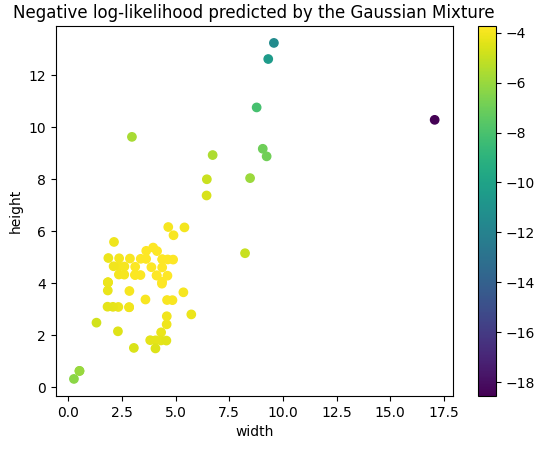
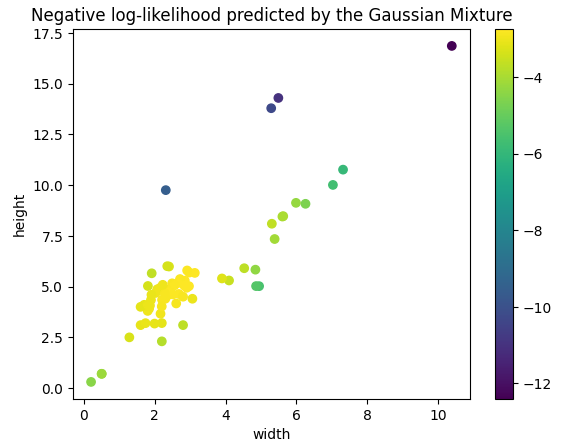
light fixes

diff --git a/README.md b/README.md
@@ -254,7 +254,7 @@ At the bottom right, we can identify the Geographic Coordinate System for the po
 We will further use [utm](https://pypi.org/project/utm/) python package to convert those points into `UTM` Project Coordinate System and get points as (x,y) coordinates in meters.
 
 
-But first, we need to load the shapes using [pyshapefile](https://pypi.org/project/pyshp/) python package to read the shapefile containing a bouding box and polygons points list associated to each shape.
+But first, we need to load the shapes using [pyshapefile](https://pypi.org/project/pyshp/) python package to read the shapefile containing a bouding box and a polygon points list associated to each shape.
 
 
 ```
@@ -281,20 +281,20 @@ We can get the limit of the zone in terms of Geographic Coordinates (longitude, 
 Let's then project the Geographic Coordinates into meters Project Coordinates UTM ...
 
 ```
-from src.utils.converter import project_and_normalize_shapes
-shapes_normalized = project_and_normalize_shapes(shapes)
+>>> from src.utils.converter import project_and_normalize_shapes
+>>> shapes_normalized = project_and_normalize_shapes(shapes)
 ```
 
 ... and use a function to re-build the mask with project meters coordinates
 
 ```
-from src.core.morphology import get_cv2_contours_from_shapes
-from src.utils.display import draw_cc_from_contours
-draw_cc_from_contours(contours);
+>>> from src.core.morphology import get_cv2_contours_from_shapes
+>>> from src.utils.display import draw_cc_from_contours
+>>> draw_cc_from_contours(contours);
 ```
 ![img](.thumbnails/mask_with_meters.png)
 
-III.2/ Geometric analyses
+## III.2/ Geometric analyses
 
 The last mask above shows that we can play with connected components geometrics to idenfity a pattern that well characterize a vehicle.
 
@@ -305,14 +305,14 @@ We expect to identify this cluster to well represent isolated and well-segmented
 Let's plot height, width bounding boxes distribution
 
 ```
-import matplotlib.pyplot as plt
-hv = [shape.bbox[2] - shape.bbox[0] for shape in shapes_normalized]
-wv = [shape.bbox[3] - shape.bbox[1] for shape in shapes_normalized]
-plt.scatter(wv,hv);
-plt.xlabel("width")
-plt.ylabel("height")
-plt.title("(width, height) distribution of connected components")
-plt.show()
+>>> import matplotlib.pyplot as plt
+>>> hv = [shape.bbox[2] - shape.bbox[0] for shape in shapes_normalized]
+>>> wv = [shape.bbox[3] - shape.bbox[1] for shape in shapes_normalized]
+>>> plt.scatter(wv,hv);
+>>> plt.xlabel("width")
+>>> plt.ylabel("height")
+>>> plt.title("(width, height) distribution of connected components")
+>>> plt.show()
 ```
 
 ![img](.thumbnails/hw_distrib.png)
@@ -322,24 +322,24 @@ As expected, there is a good insight here as we show that most point are centere
 That's why we propose to get better height, width vehicle by fitting the best rectangle using on each connected component.
 
 ```
-from src.core.morphology import find_cc_best_enclosing_rectangles
-find_cc_best_enclosing_rectangles(shapes_normalized, contours)
+>>> from src.core.morphology import find_cc_best_enclosing_rectangles
+>>> find_cc_best_enclosing_rectangles(shapes_normalized, contours)
 ```
 
 Here after an illustration showing the best rectangle in red pixels for one of the connected component:
 
 ![img](.thumbnails/best_rectangle.png)
 
-How does the height, width distribution behaves? let's see it:
+How does the height, width distribution behaves now? let's see it:
 
 ```
-hv = [shape.rectangle_height for shape in shapes_normalized]
-wv = [shape.rectangle_width for shape in shapes_normalized]
-plt.scatter(wv,hv);
-plt.xlabel("width")
-plt.ylabel("height")
-plt.title("(width, height) distribution of rectangle that best enclosed connected components")
-plt.show()
+>>> hv = [shape.rectangle_height for shape in shapes_normalized]
+>>> wv = [shape.rectangle_width for shape in shapes_normalized]
+>>> plt.scatter(wv,hv);
+>>> plt.xlabel("width")
+>>> plt.ylabel("height")
+>>> plt.title("(width, height) distribution of rectangle that best enclosed connected components")
+>>> plt.show()
 ```
 
 ![img](.thumbnails/hw_distrib_pp.png)
@@ -349,21 +349,21 @@ As expected, we finally get a more compact cluster showing that there is a simpl
 Now let's now get a Gaussian that fit that 2D (height, width) distribution
 
 ```
-import numpy as np
-import sklearn
+>>> import numpy as np
+>>> import sklearn
 
-gm = sklearn.mixture.GaussianMixture(n_components=1) # we use a mixture of gaussians model with only one component
-X = np.concatenate((np.array(wv)[:,np.newaxis],np.array(hv)[:,np.newaxis]), axis=1)
-gm.fit(X)
-scorev = gm.score_samples(X)
+>>> gm = sklearn.mixture.GaussianMixture(n_components=1) # we use a mixture of gaussians model with only one component
+>>> X = np.concatenate((np.array(wv)[:,np.newaxis],np.array(hv)[:,np.newaxis]), axis=1)
+>>> gm.fit(X)
+>>> scorev = gm.score_samples(X)
 
-sc = plt.scatter(wv, hv, c=scorev)
-plt.colorbar(sc)
-plt.title("Negative log-likelihood predicted by the Gaussian Mixture")
-plt.axis("tight")
-plt.xlabel("width")
-plt.ylabel("height")
-plt.show()
+>>> sc = plt.scatter(wv, hv, c=scorev)
+>>> plt.colorbar(sc)
+>>> plt.title("Negative log-likelihood predicted by the Gaussian Mixture")
+>>> plt.axis("tight")
+>>> plt.xlabel("width")
+>>> plt.ylabel("height")
+>>> plt.show()
 ```
 
 ![img](.thumbnails/gaussian.png)
